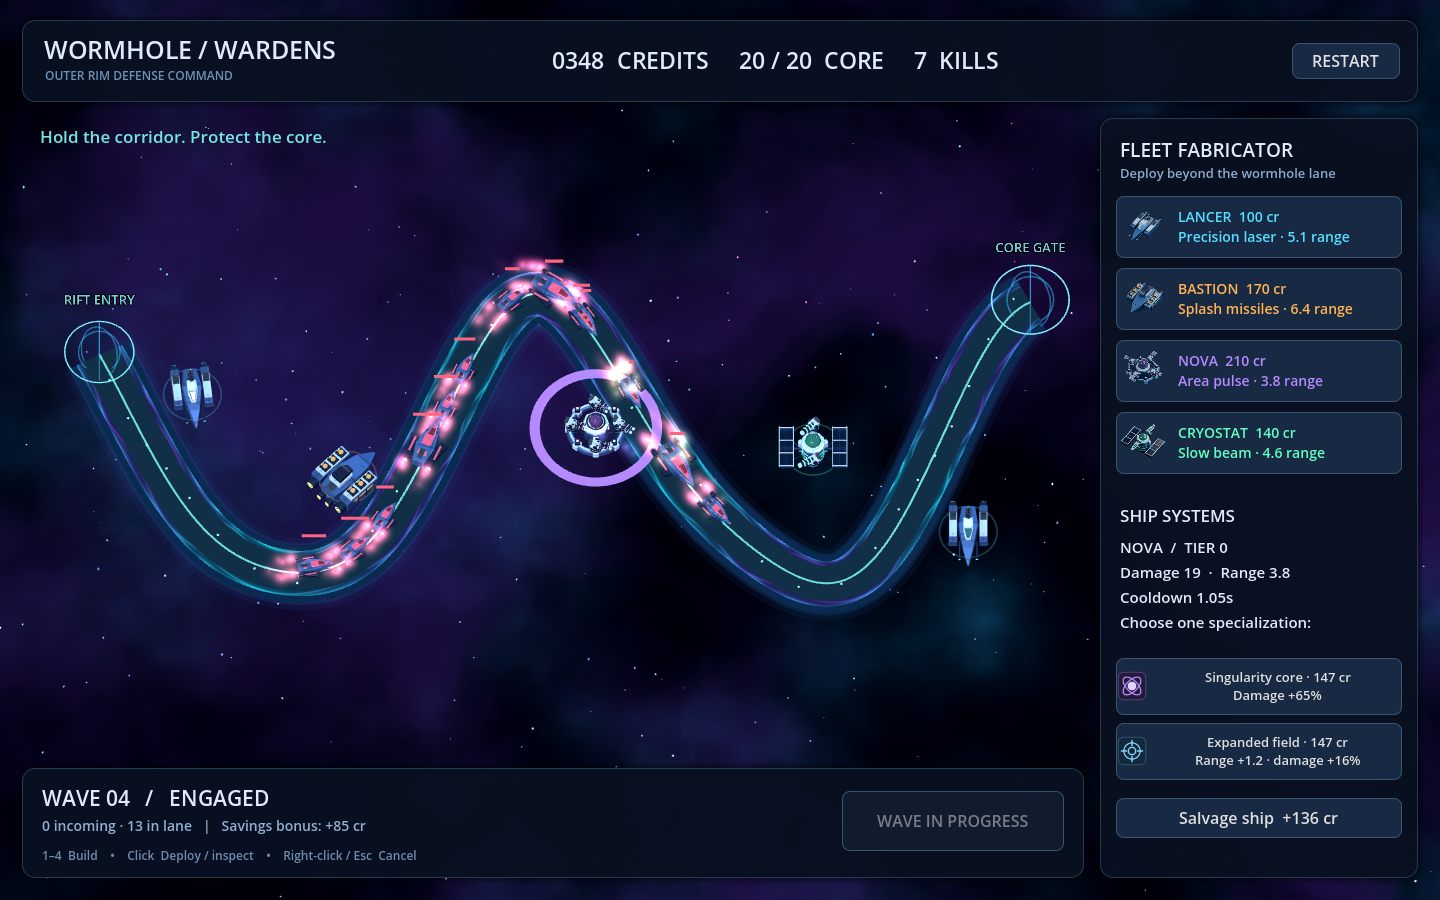
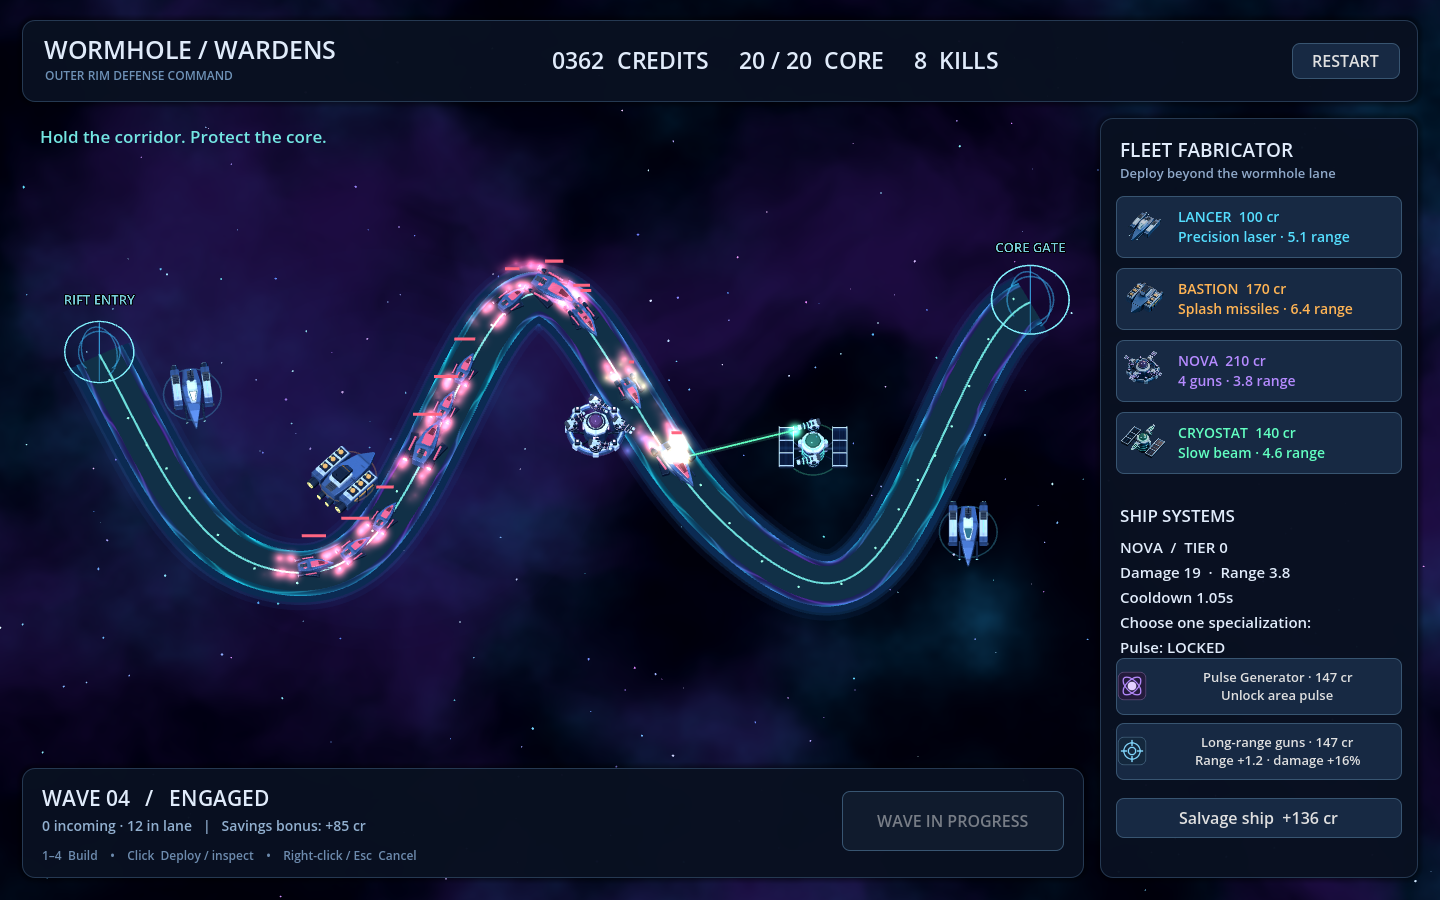
Fix gradual-turn thrusters and add Nova targeting and pulse upgrades

diff --git a/README.md b/README.md
@@ -20,7 +20,7 @@ Double-click `Launch.cmd` on this machine. Alternatively, import `project.godot`
 | --- | ---: | --- | ---: | --- |
 | Lancer | 100 | Rapid single-target laser | 5.1 | Damage / range |
 | Bastion | 170 | Explosive missile strike, 1.5 splash radius | 6.4 | Damage / fire rate |
-| Nova | 210 | Pulse damages all enemies in range | 3.8 | Damage / range |
+| Nova | 210 | Four independently targeted guns | 3.8 | Pulse Generator / long-range guns |
 | Cryostat | 140 | Low-damage beam slows enemies for 2 seconds | 4.6 | Stronger slow / fire rate |
 
 Enemy count, health, and speed increase each wave. Fast ships arrive from wave 2, armored ships from wave 3, and a dreadnought every fifth wave. Survival is endless.
@@ -33,6 +33,10 @@ All five units have complete three-dimensional hulls and undersides. Materials u
 
 Nova mounts four independent twin-barrel turrets (`nova_gun.glb`); Cryostat mounts two coil projectors (`cryo_gun.glb`). Gun assemblies attach to `GunSocket_*` nodes on the fixed station bodies. Each has a yawing head, a `BarrelPivot` for elevation and recoil, and `Muzzle_*` nodes from which its firing effects originate. The station bodies do not turn to aim.
 
+Nova's guns maintain separate enemy locks, spreading across up to four enemies in range. Spare guns share a target when fewer enemies are available; lost or out-of-range targets are replaced automatically. Each aligned gun deals its listed damage to its own target on the shared firing cooldown. A newly built Nova has no area attack.
+
+The first **Pulse Generator** upgrade unlocks an additional area pulse on each firing cycle, dealing the listed damage once to every enemy in range. It costs 147 credits and does not increase gun damage on unlock. Subsequent tiers increase gun and pulse damage by 65% and range by 0.25. The exclusive **Long-range guns** branch increases gun range and damage but never unlocks the pulse. Buying the pulse during a wave forfeits the no-purchase bonus like other upgrades.
+
 The Lancer turns smoothly using opposing bow/stern thrusters. Its jets emit from the side opposite the required force. Enemy hits release sparks; destroyed ships collapse inward. Purchase buttons use renders of the actual ships and individual upgrade symbols.
 
 To regenerate assets, run Blender in background mode with `--python source/build_models.py` (the entry point for `build_detailed_models.py`), then `--python source/render_fleet_icons.py` to render the purchase icons and model gallery. The renderer preserves the exported game materials. `model_previews/fleet_gallery.png` and `model_previews/nova_side.png` show the assembled models and underside structure.
@@ -40,5 +44,9 @@ To regenerate assets, run Blender in background mode with `--python source/build
 Run Godot with `--headless --path . -- --smoke-test` for economy and placement assertions, `--headless --path . -- --combat-test` for five-wave combat and game-over checks, or `--headless --path . -- --vfx-test` to verify thrust direction, impact effects, inward collapse, and particle cleanup. `-- --capture` creates a staged gameplay screenshot and exits.
 
 `--headless --path . -- --station-test` verifies separate gun attachments, barrel alignment in yaw and elevation, stationary station bodies, and firing from weapon muzzles.
+
+`--headless --path . -- --nova-target-test` checks distinct stable locks, independent aiming and beams, damage balance, target replacement, and upgraded range.
+
+`--headless --path . -- --nova-pulse-test` checks the guns-only default, paid pulse unlock, additional area damage, exclusive branches, range limits, and the wave savings rule.
 
 This first playable version has one map and session-only progress. The local launcher requires the Godot installation path shown above; the project itself can be opened on other machines with Godot 4.x.
